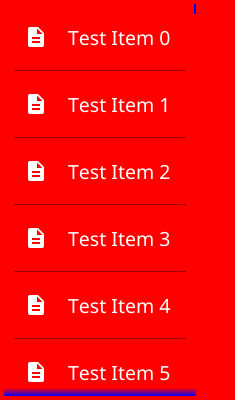
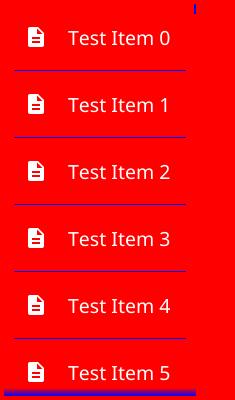
fix list divider missing theme change

diff --git a/widget/list.go b/widget/list.go
@@ -295,7 +295,7 @@ type listItem struct {
 	onTapped          func()
 	statusIndicator   *canvas.Rectangle
 	child             fyne.CanvasObject
-	divider           *canvas.Rectangle
+	divider           *widget.Separator
 	hovered, selected bool
 }
 
@@ -314,7 +314,7 @@ func (li *listItem) CreateRenderer() fyne.WidgetRenderer {
 	li.ExtendBaseWidget(li)
 
 	li.statusIndicator = canvas.NewRectangle(theme.BackgroundColor())
-	li.divider = canvas.NewRectangle(theme.ShadowColor())
+	li.divider = widget.NewSeparator(fyne.NewSize(1, 1), theme.ShadowColor)
 
 	objects := []fyne.CanvasObject{li.statusIndicator, li.child, li.divider}
 
@@ -382,7 +382,6 @@ func (li *listItemRenderer) Layout(size fyne.Size) {
 
 	li.item.divider.Move(fyne.NewPos(theme.Padding(), size.Height-1))
 	s = fyne.NewSize(size.Width-theme.Padding()*2, 1)
-	li.item.divider.SetMinSize(s)
 	li.item.divider.Resize(s)
 }
 
